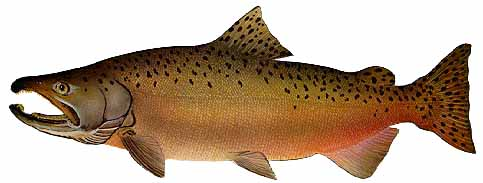
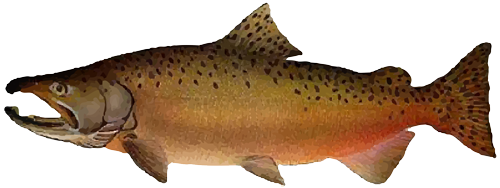
placeholders changed to imgs/

diff --git a/css/style.css b/css/style.css
@@ -23,6 +23,33 @@ header{
 #nav img{
     float: left;
     margin-right: 49%;
+    width: 200px;
+}
+
+#nav img:hover{
+    animation: shakeSalmon 2s, moveSalmon 4s;
+    animation-iteration-count: infinite;
+    position: relative;
+}
+      
+@keyframes shakeSalmon{
+    0% { transform: translate(1px, 1px) rotate(0deg); left:5px; }
+    10% { transform: translate(-1px, -2px) rotate(-1deg); left:5px; }
+    20% { transform: translate(-3px, 0px) rotate(1deg); left:5px; }
+    30% { transform: translate(3px, 2px) rotate(0deg); left:5px; }
+    40% { transform: translate(1px, -1px) rotate(1deg); left:5px; }
+    50% { transform: translate(-1px, 2px) rotate(-1deg); left:5px; }
+    60% { transform: translate(-3px, 1px) rotate(0deg); left:5px; }
+    70% { transform: translate(3px, 1px) rotate(-1deg); left:5px; }
+    80% { transform: translate(-1px, -1px) rotate(1deg); left:5px; }
+    90% { transform: translate(1px, 2px) rotate(0deg); left:5px; }
+    100% { transform: translate(1px, -2px) rotate(-1deg); left:5px; }
+}
+
+@keyframes moveSalmon{
+    0% { left: 0; }
+    50% { left: 30em; }
+    100% { left: 0; }
 }
 
 #nav p{
@@ -118,7 +145,7 @@ header{
     font-family: Arial, Helvetica, sans-serif;
     font-weight: bold;
     text-align: justify;
-    width: 43%;
+    width: 52%;
     height: 25em;
     padding-right: 1.5em;
     margin-right: 1.5em;
@@ -128,6 +155,13 @@ header{
 #title section h2{
     color: #e15531;
     font-size: 1.4em;
+}
+
+#title img{
+    border-radius: 2em;
+    border: thick double #81b4b3;
+    height: 400px;
+    width: 395px;
 }
 
 #sub *{
@@ -178,7 +212,10 @@ header{
 
 #tab img:first-child{
     float: left;
+    border-radius: 2em;
+    border: medium dotted #e15531;
     margin-right: 1.5em;
+    height: 205px;
 }
 
 #tab p{
@@ -190,8 +227,11 @@ header{
 }
 
 #tinypic{
-    margin-top: .6em;
+    border-radius: 1em;
+    border: medium dotted #e15531;
     margin-right: 1.5em;
+    height: 100px;
+    width: 115px;
 }
 
 #quote *{
@@ -284,124 +324,54 @@ footer:not(.back){
 #copyright{
     text-align: center;
     font-size: 12px;
+    opacity: .2;
+}
+
+.back *{
+    background-color: #dee7e7;
 }
 
 .back{
     background-color: #dee7e7;
-    color: #e15531;
-    width: 183%;
     border: medium solid #81b4b3;
-    text-decoration: underline;
-    font-weight: bolder;
-    font-size: 2em;
     text-align: right;
-    padding-top: .5em;
-    padding-bottom: .4em;
+    padding-top: 1em;
+    padding-bottom: 1em;
     padding-right: 1em;
     margin-top: .6em;
-    margin-left: -48.5%;
+    margin-bottom: -.2em;
+    margin-left: -29.7em;
+    margin-right: -23.7em;
 }
 
-.back:hover{
+.back a img{
+    height: 25px;
+}
+
+.back a img:hover{
     cursor: pointer;
+    animation: shakeChinook 4s, moveChinook 2s;
+    animation-iteration-count: infinite;
+    position: relative;
+}
+  
+@keyframes shakeChinook{
+    0% { transform: translate(1px, 1px) rotate(0deg); left:5px; }
+    10% { transform: translate(-1px, -2px) rotate(-1deg); left:5px; }
+    20% { transform: translate(-3px, 0px) rotate(1deg); left:5px; }
+    30% { transform: translate(3px, 2px) rotate(0deg); left:5px; }
+    40% { transform: translate(1px, -1px) rotate(1deg); left:5px; }
+    50% { transform: translate(-1px, 2px) rotate(-1deg); left:5px; }
+    60% { transform: translate(-3px, 1px) rotate(0deg); left:5px; }
+    70% { transform: translate(3px, 1px) rotate(-1deg); left:5px; }
+    80% { transform: translate(-1px, -1px) rotate(1deg); left:5px; }
+    90% { transform: translate(1px, 2px) rotate(0deg); left:5px; }
+    100% { transform: translate(1px, -2px) rotate(-1deg); left:5px; }
 }
 
-
-
-
-
-
-/* *{
-    background-color:#81b4b3;
-    text-align: center;
+@keyframes moveChinook{
+    0% { left: 0; }
+    50% { left: -1.5em; }
+    100% { left: 0; }
 }
 
-img{
-    background-color: #dee7e7;
-    border: .75em double #e15531;
-    padding: 2em;
-    margin: 1em;
-    border-radius: 5em;
-}
-
-img:active{
-    transform: scaleX(-1);
-}
-
-h1{
-    font-family: 'Franklin Gothic Medium', 'Arial Narrow', Arial, sans-serif;
-    font-size: 2em;
-    font-weight: bolder;
-    color: #e15531;
-    margin: 1em;
-}
-
-hr{
-    width: 60%;
-    border: .1em dotted #c9cdd6;
-}
-
-#hourly{
-    display: inline-block;
-    color: #e15531;
-    font-weight: bolder;
-}
-
-#store, #list{
-    border-radius: 1em;
-    background-color: #a1bfb9;
-    padding: .2em;
-    margin-left: 5em;
-    margin-right: 5em;
-}
-
-#store{
-    text-decoration: underline;
-}
-
-ul{
-    height: 25em;
-    overflow-y: scroll;
-}
-
-#copyright{
-    color: #a1bfb9;
-    margin-right: 2em;
-    float: right;
-}
-
-table{
-    display: inline;
-}
-
-td{
-    background-color: #c9cdd6;
-    border: medium dotted #e15531;
-    border-radius: 2em;
-    padding: 1em;
-    font-family: Georgia, 'Times New Roman', Times, serif;
-    font-weight: bolder;
-    font-size: 20px;
-    color: #e15531;
-}
-
-thead td, tbody td:first-child{
-    background-color: #e15531;
-    color: #dee7e7;
-}
-
-tbody td:first-child, tbody td:last-child{
-    text-transform: capitalize;
-    text-decoration: underline;
-}
-
-tfoot td{
-    background-color: #dee7e7;
-}
-
-tbody td:hover{
-    cursor: pointer;
-    background-color: #dee7e7;
-    color: #e15531;
-    border-radius: 1.2em;
-} */

diff --git a/index.html b/index.html
@@ -8,11 +8,18 @@
     <body>
         <header>
             <section id="nav">
-                <img src="https://placehold.it/200x70/000" alt="logo" title="logo">
+                <img src="img/salmon.png" alt="salmon logo">
                 <p>800-555-5555</p>
                 <nav>
                     <ul>
-                        <li>Resources</li>
+                        <li>
+                            <form>
+                                <fieldset>
+                                    <label>Hours</label>
+                                    <select type="option">6 am</select>
+                                </fieldset>
+                            </form>
+                        </li>
                         <li>About Us</li>
                         <li>Blog</li>
                     </ul>
@@ -43,7 +50,7 @@
                         <li>Page Title</li>
                     </ul>
                 </nav>
-                <h1>Page Title</h1>
+                <h1>Pat's Salmon Cookies</h1>
                 <br>
                 <section>
                     <p>Lorem ipsum dolor sit amet, eu vis alia enim qualisque, quo vitae tamquam ne. Illud tantas decore ei quo, maiorum nusquam et vim. Duis quaestio perpetua vix cu. Blandit euripidis cum cu, oblique definiebas ei usu. Eum eu dolorum propriae mentitum, eum minim discere moderatius ea.</p>
@@ -54,24 +61,24 @@
                     <br>
                     <p>Lorem ipsum dolor sit amet, eu vis alia enim qualisque, quo vitae tamquam ne. Illud tantas decore ei quo, maiorum nusquam et vim. Duis quaestio perpetua vix cu. Blandit euripidis cum cu, oblique definiebas ei usu. Eum eu dolorum propriae mentitum, eum minim discere moderatius ea.</p>
                 </section>
-                <img src="https://placehold.it/480x400/000" alt="hero image" title="hero image">
+                <img src="img/fish.png" alt="salmon-shaped cookie cutter">
             </section>
 
             <section id="sub">
                 <nav>
                     <ul>
                         <li>Tab 1</li>
-                        <li>Tab 2</li>
-                        <li>Tab 3</li>
-                        <li>Tab 4</li>
+                        <li>Salmon Cookies</li>
+                        <li>Cookie Cutters</li>
+                        <li>Salmon Shirts</li>
                     </ul>
                 </nav>
                 <section id="tab">
-                    <img src="https://placehold.it/200x200/000" alt="featured image" title="featured image">
+                    <img src="img/family.jpg" alt="featured image" title="featured image">
                     <p>Lorem ipsum dolor sit amet, eu vis alia enim qualisque, quo vitae tamquam ne. Illud tantas decore ei quo, maiorum nusquam et vim. Duis quaestio perpetua vix cu. Blandit euripidis cum cu, oblique definiebas ei usu. Eum eu dolorum propriae mentitum, eum minim discere moderatius ea.</p>
-                    <img id="tinypic" src="https://placehold.it/100x100/000" alt="sub image" title="sub image">
-                    <img id="tinypic" src="https://placehold.it/100x100/000" alt="sub image" title="sub image">
-                    <img id="tinypic" src="https://placehold.it/100x100/000" alt="sub image" title="sub image">
+                    <img id="tinypic" src="img/frosted-cookie.jpg" alt="salmon cookies" title="Salmon Cookies">
+                    <img id="tinypic" src="img/cutter.jpg" alt="salmon-shaped cookie cutters" title="Cookie Cutters">
+                    <img id="tinypic" src="img/shirt.jpg" alt="salmon shirts" title="Salmon Shirts">
                 </section>
             </section>
 
@@ -114,9 +121,11 @@
                 </form>
             </section>
 
-            <p id="copyright">CopyRight Information</p>
+            <p id="copyright">© Valerie Sobol 2019</p>
 
-            <p class="back">⮨</p>
+            <section class="back">
+                <a href="sales.html"><img src="img/chinook.png"></a>
+            </section>
         </footer>
     </body>
 </html>
